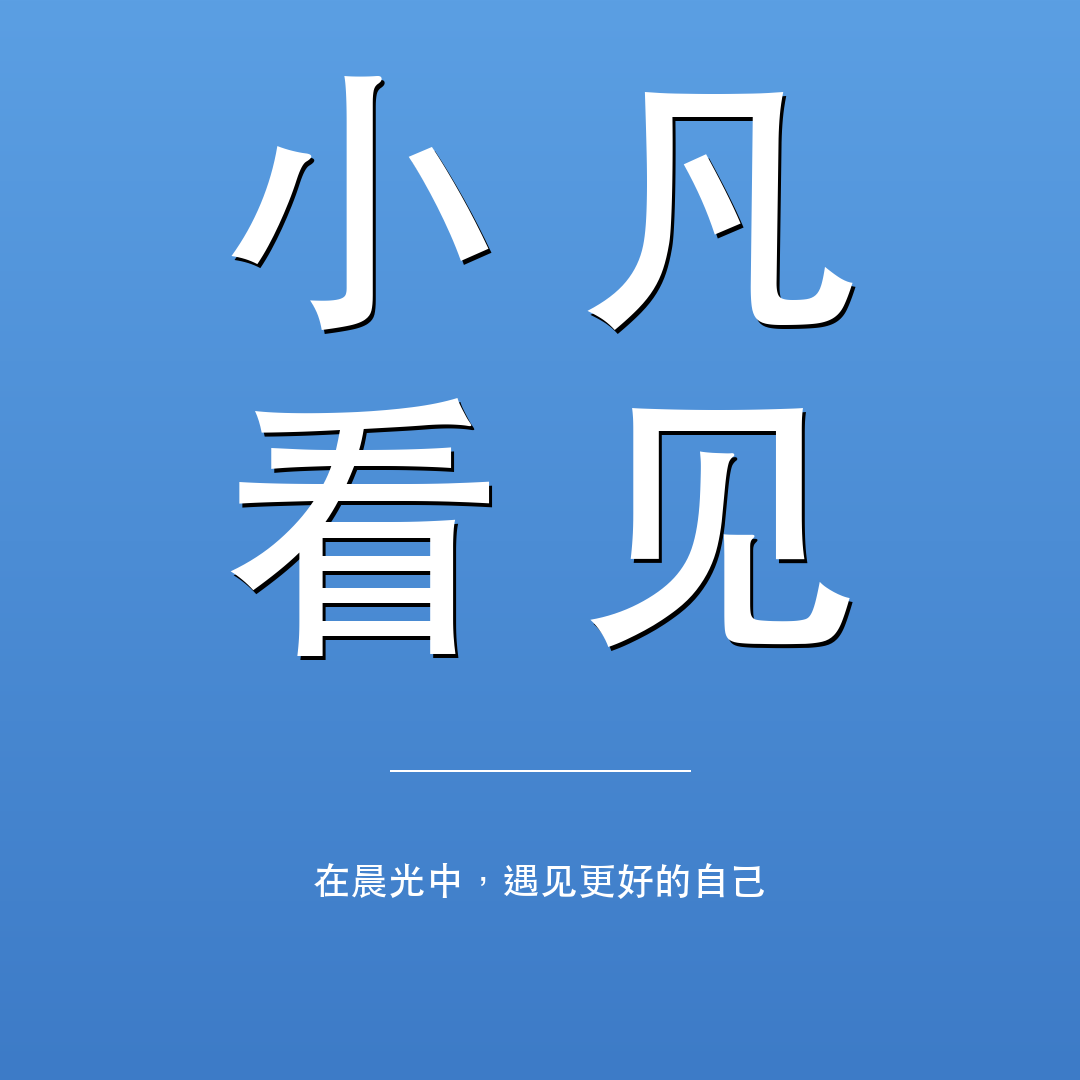
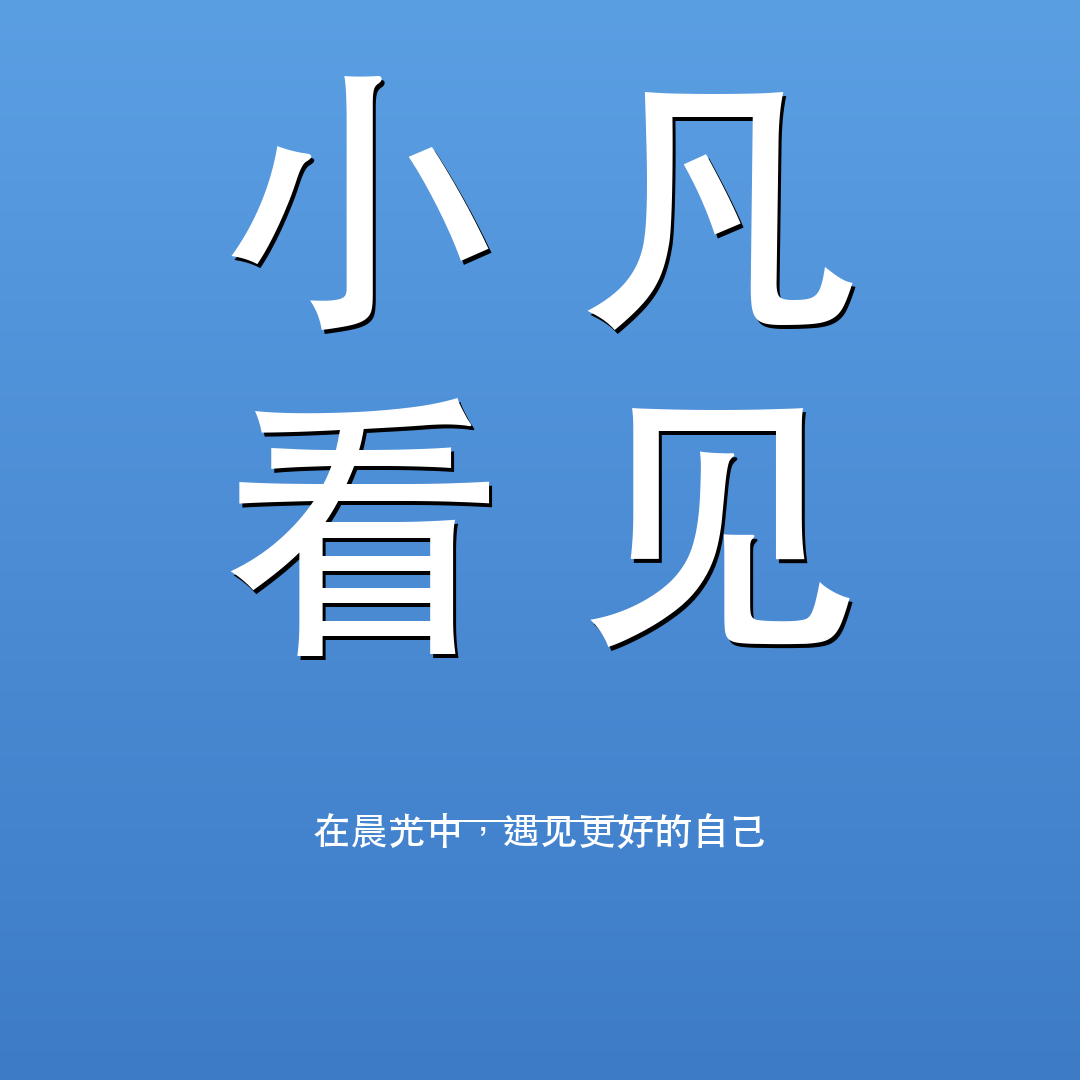
fix: 调整横线和副标题位置
- 横线间距：250px → 300px（增加与'看见'的距离）
- 副标题往上挪：额外往上50px
- 确保横线跟'看见'不贴着，有充分间距

✨ Generated with Claude Code

Changed region(s): [[0.4583, 0.7333, 0.7028, 0.8556], [0.275, 0.7333, 0.4278, 0.825]]

diff --git a/generate_share_image.py b/generate_share_image.py
@@ -109,16 +109,16 @@ def generate_share_image():
     draw.text((x_char2, y_line2), text2_2,
               fill=(255, 255, 255), font=font_main, anchor="mm")
 
-    # ====== 下方：装饰线 ======（往下挪）
-    line_y = y_line2 + 250
+    # ====== 下方：装饰线 ======（往上挪，增加与"看见"的间距）
+    line_y = y_line2 + 300  # 增加间距到300，确保不贴着
     line_left = width / 2 - 150
     line_right = width / 2 + 150
     draw.line([(line_left, line_y), (line_right, line_y)],
               fill=(255, 255, 255, 150), width=2)
 
-    # ====== 最下方：副标题 - 紧靠底边 ======
+    # ====== 最下方：副标题 - 往上挪一些 ======
     subtitle_text = "在晨光中，遇见更好的自己"
-    subtitle_y = height - 100 - offset_y  # 靠近底部，保持100px的间距
+    subtitle_y = height - 100 - offset_y - 50  # 再往上挪50px，但保持底部间距
     draw.text((center_x, subtitle_y), subtitle_text,
               fill=(255, 255, 255, 200), font=font_subtitle, anchor="mm")
 
